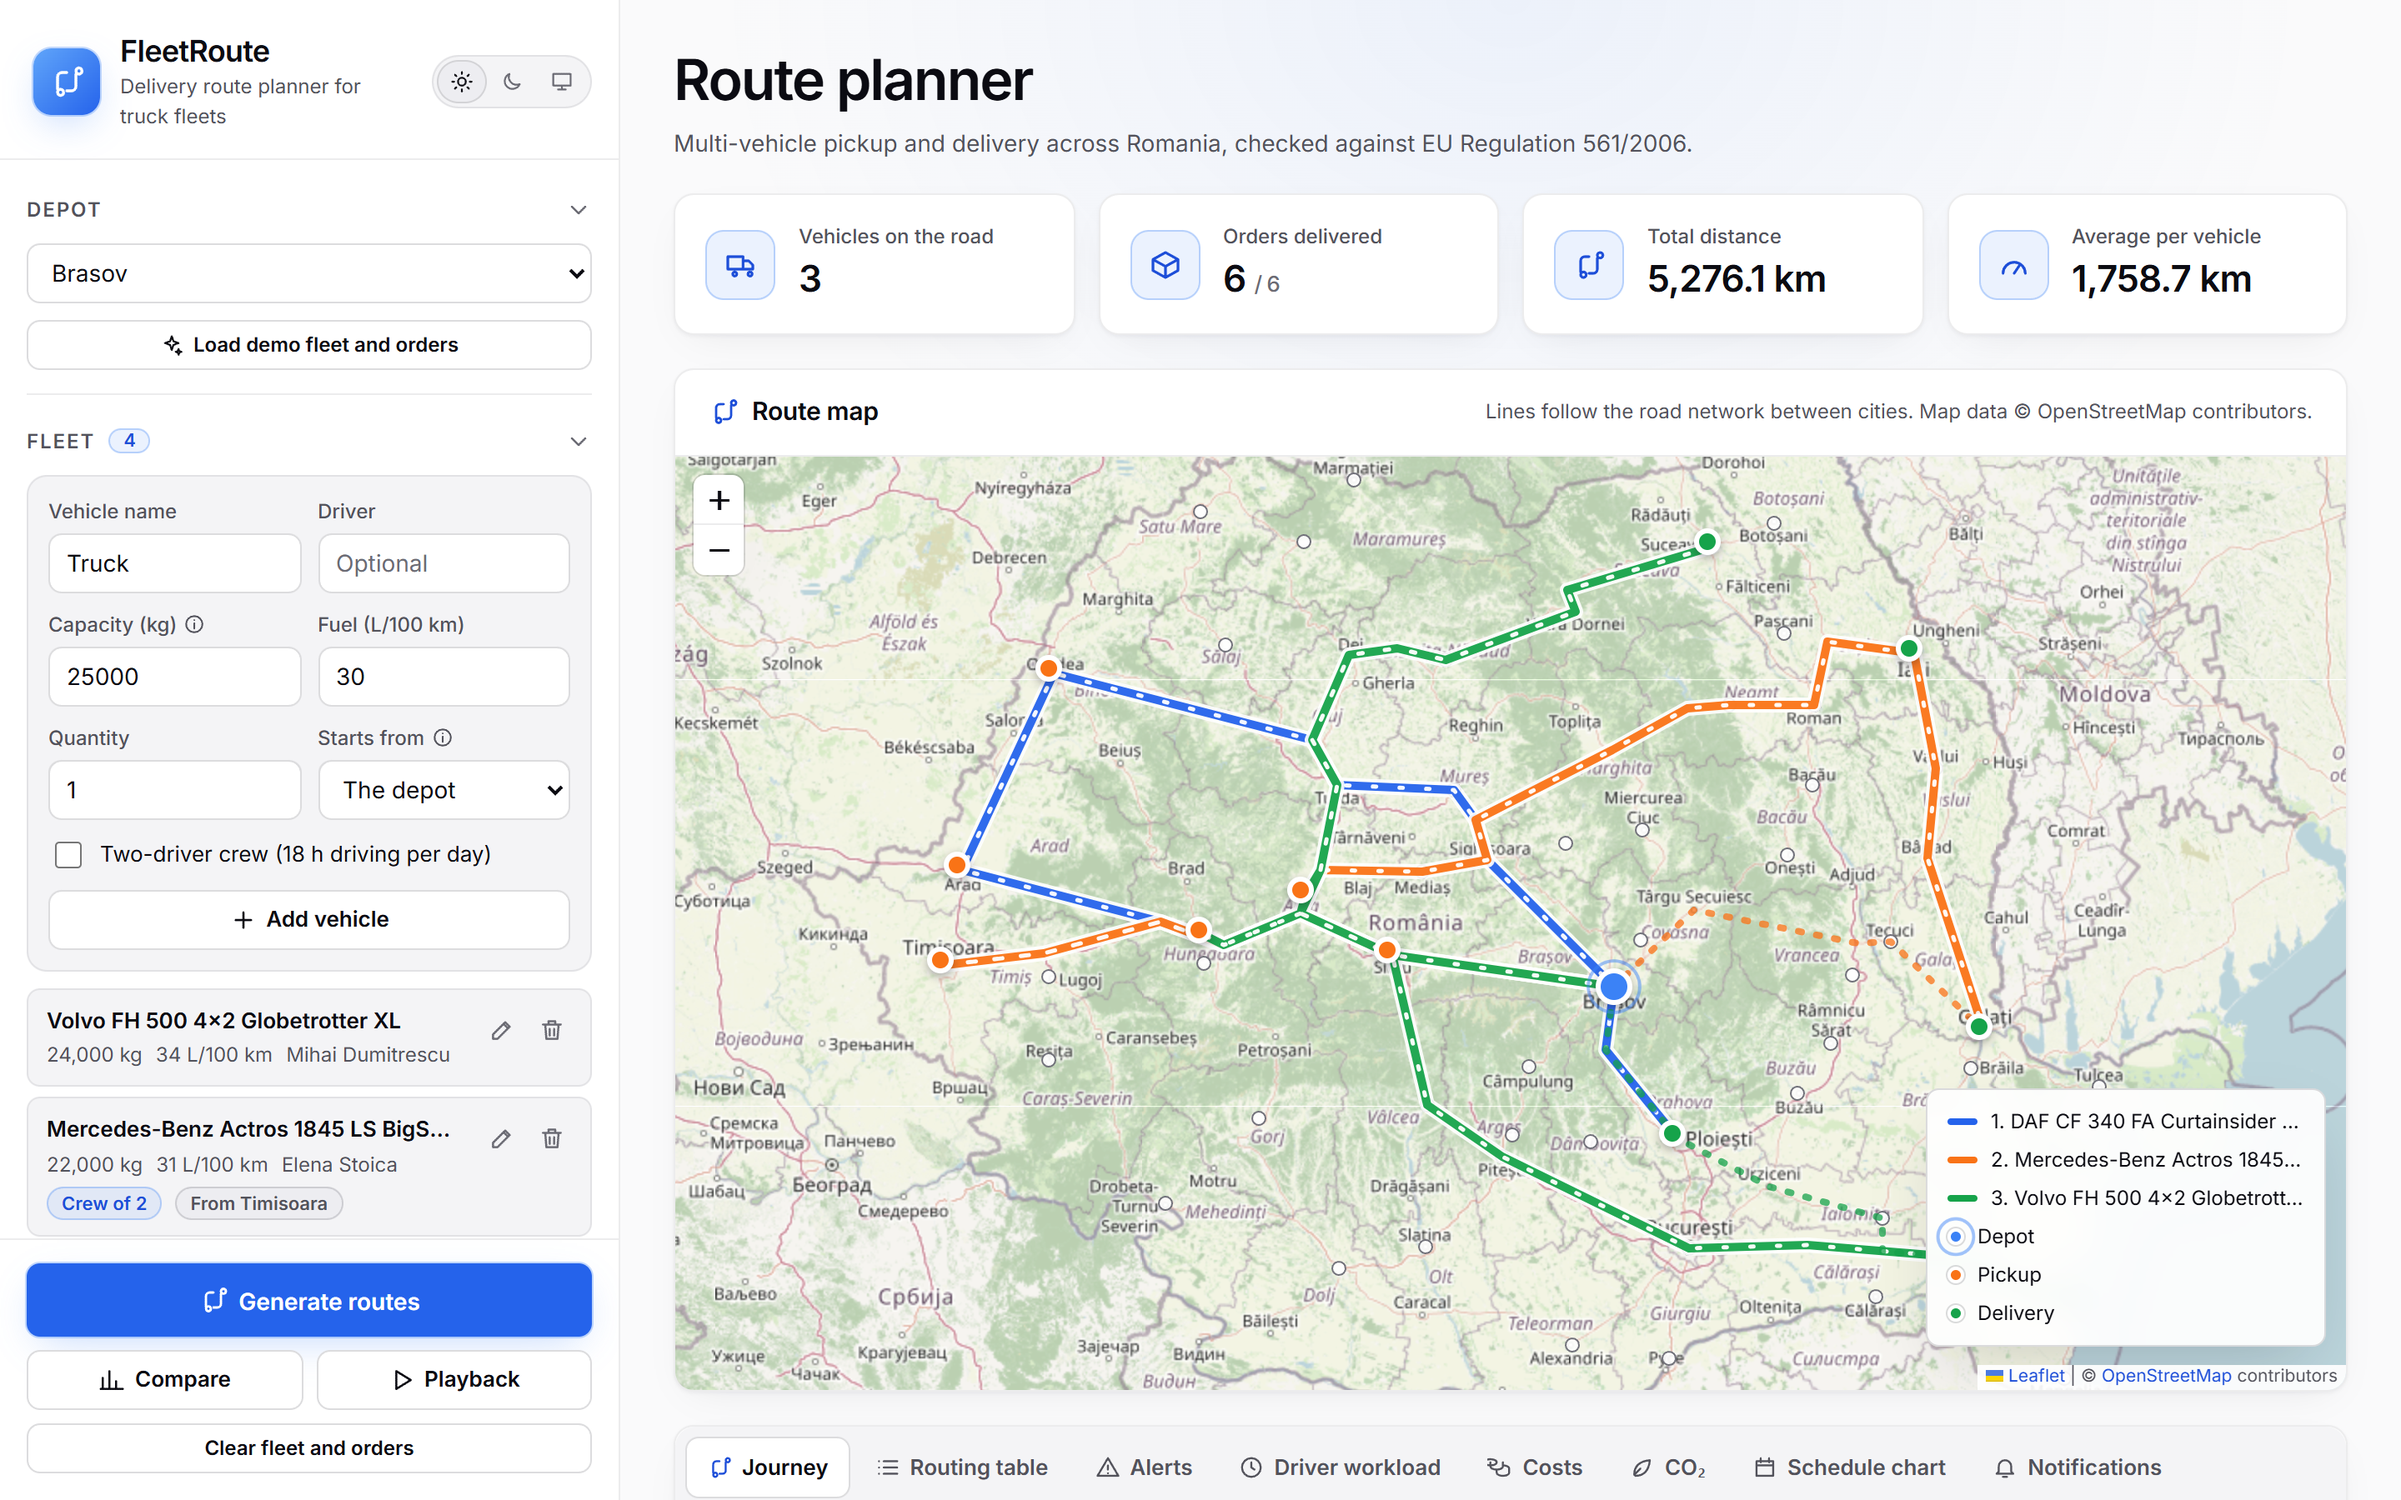
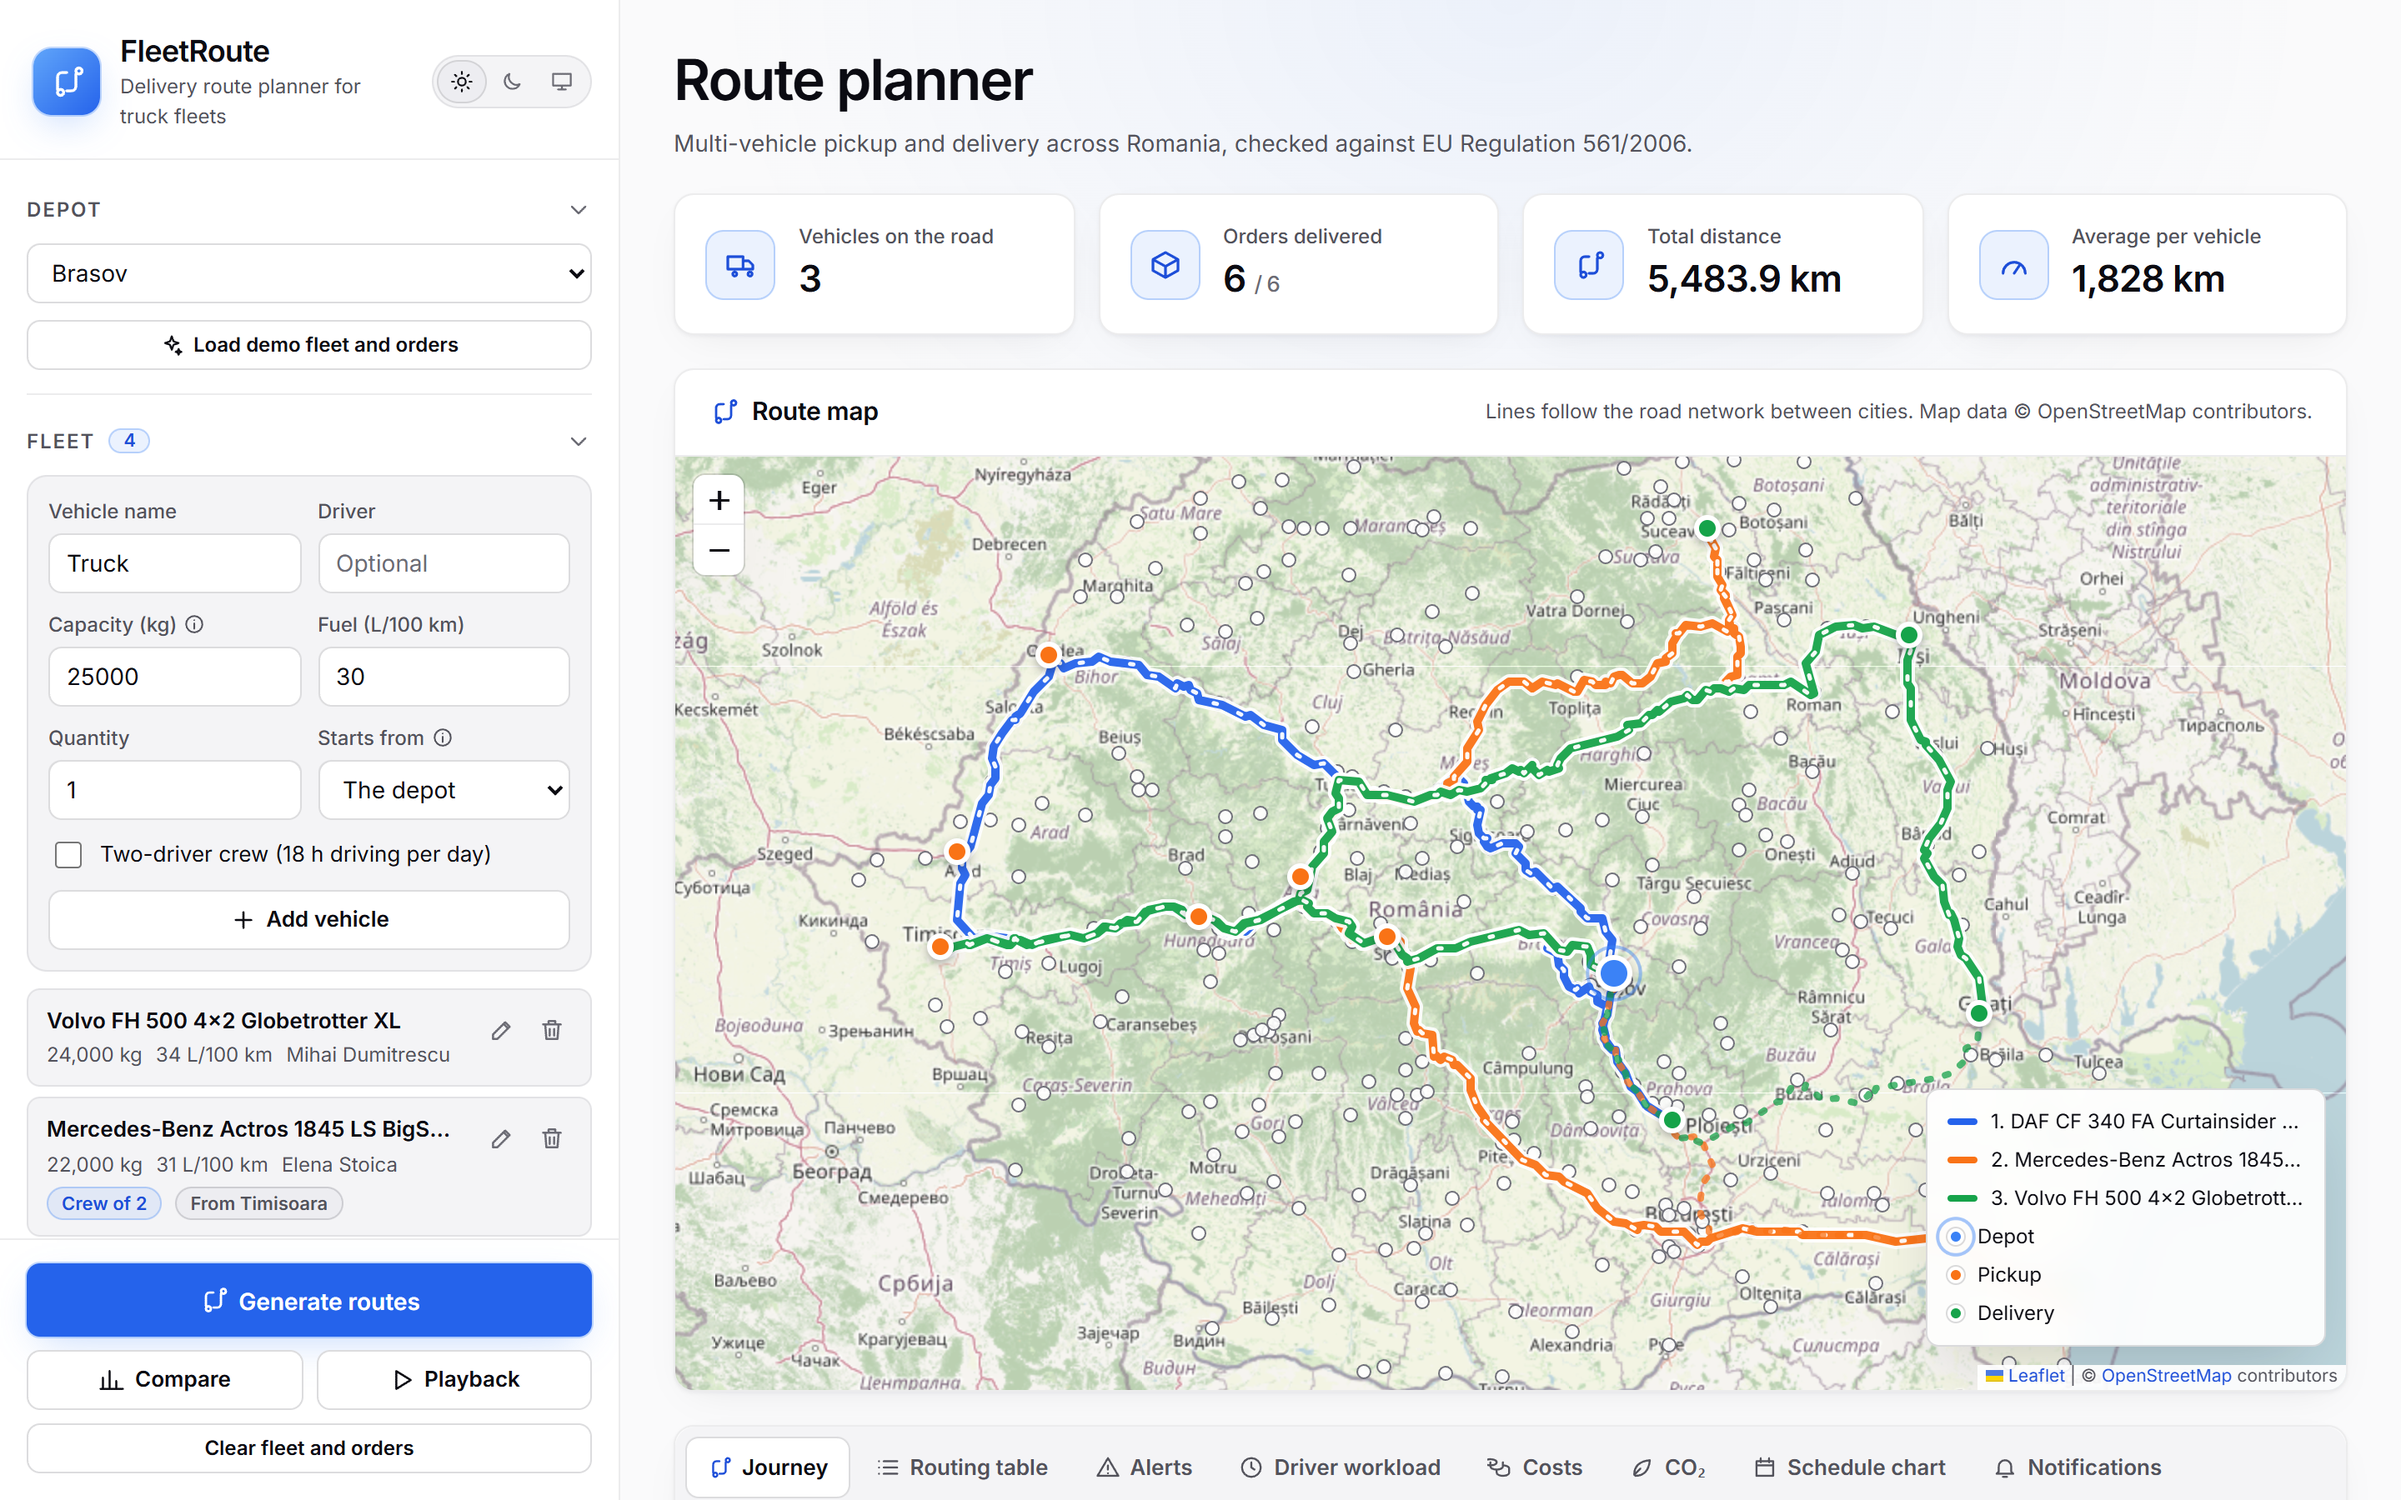
Update README and screenshots for 1.2.0
Describe the country-wide road network, how it is built and what it is accurate to, the
truck-time model, the data licences, and the new tests and CI checks. New screenshots
from the demo plan on real roads. Frontend version 1.2.0.

Changed region(s): [[0.2812, 0.28, 1.0, 0.9333], [0.6875, 0.1556, 0.7812, 0.2178], [0.875, 0.1556, 0.9375, 0.2178]]

diff --git a/README.md b/README.md
@@ -22,14 +22,18 @@ order, and when. Every plan respects truck capacity, delivery deadlines and the 
 driving and rest time.
 
 The optimisation uses Google OR-Tools behind a Python / Starlette API. The interface is
-React + TypeScript with an interactive Leaflet map, in dark and light themes. The road network of 59 Romanian cities
-ships with the project, so planning runs entirely offline. Only the map background comes
-from OpenStreetMap.
+React + TypeScript with an interactive Leaflet map, in dark and light themes. A road
+network covering every city and town in Romania ships with the project, with real road
+distances, truck driving times and road shapes, so planning runs entirely offline. Only the
+map background is loaded from OpenStreetMap.
 
 ![FleetRoute in the dark theme: KPIs and the planned routes on the map](docs/screenshots/overview.png)
 
 ## Highlights
 
+- **The whole of Romania.** All 318 cities and towns reachable by road, from Bucharest to
+  the smallest town, linked by the real roads between them. Any of them can be a depot,
+  a pickup or a delivery.
 - **Vehicle routing with real constraints.** Pickup-and-delivery pairs on the same truck,
   capacity per vehicle, delivery deadlines, earliest pickup times and priority orders.
   All of it is modelled with the OR-Tools routing solver, with a greedy fallback.
@@ -42,8 +46,8 @@ from OpenStreetMap.
   of both, plus a side-by-side comparison of four first-solution strategies.
 - **Load splitting.** Orders heavier than the biggest truck are split across several
   vehicles.
-- **Route playback.** Trucks move across the map on their planned schedule, stopping for
-  loading and unloading.
+- **Route playback.** Trucks drive along the real roads on the map, on their planned
+  schedule, stopping for loading and unloading.
 - **Operational dashboards.** Journey timeline, Gantt-style schedule, driver workload,
   cost breakdown, CO₂ footprint, alerts, Romanian truck speed-limit checks and customer
   notifications.
@@ -79,8 +83,9 @@ from OpenStreetMap.
 | Frontend | React 19, TypeScript, Vite, Leaflet / react-leaflet, hand-written SVG charts, CSS design tokens (dark and light themes) |
 | Backend | Python 3.11–3.13, Starlette, Uvicorn |
 | Optimisation | Google OR-Tools (constraint solver), NetworkX (Dijkstra shortest paths) |
+| Road data | OpenStreetMap via OSRM (distances, times, road shapes), Wikidata (towns), built once by a script |
 | Reports | xlsxwriter, fpdf2 |
-| Quality | pytest (53 tests), Vitest (39 tests), TypeScript strict mode, oxlint, GitHub Actions CI, CodeQL |
+| Quality | pytest (73 tests + data checks on all 1,704 road links), Vitest (42 tests), TypeScript strict mode, oxlint, GitHub Actions CI, CodeQL |
 | Delivery | Multi-stage Docker image, Render blueprint |
 
 ## Architecture
@@ -91,7 +96,7 @@ flowchart LR
     API --> PLAN["planning.py<br/>split loads, expand fleet"]
     PLAN --> SOLVER["solver.py<br/>OR-Tools model"]
     SOLVER <-->|"re-plan with<br/>rest-aware deadlines"| RULES["compliance.py<br/>EU 561/2006 replay"]
-    SOLVER --> GRAPH["graph.py<br/>road network + Dijkstra"]
+    SOLVER --> GRAPH["graph.py<br/>road network, Dijkstra,<br/>road shapes"]
     API --> ANALYTICS["analytics.py<br/>KPIs, timeline, CO₂"]
     API --> EXPORTS["exports.py<br/>Excel / PDF"]
     UI --> MAP["Leaflet map<br/>OpenStreetMap tiles"]
@@ -197,26 +202,37 @@ npm --prefix frontend run lint
 npm --prefix frontend test
 ```
 
-The backend suite has 53 tests:
+The backend suite has 73 tests, plus two data checks on each of the 1,704 road links
+(3,481 in all):
 - solver behaviour on a small fixed network: deadlines, waiting for pickup windows,
   priorities, open routing, fallback
 - EU-rule boundaries on the real road network, e.g. a delivery a single driver cannot
   make but a two-driver crew can
-- the rules engine
+- the rules engine, including a segment longer than the break window (it used to loop
+  forever)
 - input handling and load splitting
 - the HTTP API
+- the road network: all 318 towns connected, the original city names kept, every link's
+  truck time plausible and inside the EU break window, and every road shape running from
+  town to town with a length close to the one the planner uses
+- the network builder's offline parts: town names, shape encoding and simplification,
+  truck times, and how links and shortcuts are chosen
 
-The frontend suite (Vitest) has 39 tests:
+The frontend suite (Vitest) has 42 tests:
 - time and number formatting, and importing fleets and orders saved by the original version
-- truck positions during route playback, including the 2 h loading stops
+- truck positions during route playback, along the road shapes and through the 2 h loading stops
 - the API client's error messages
 - the theme rules, including a check that the no-flash script in `index.html` agrees with them
 
-GitHub Actions runs everything on every push:
+GitHub Actions runs everything on every push and pull request:
 - the backend suite on Python 3.11, 3.12 and 3.13
 - the frontend type-check, lint, unit tests and build
-- a Docker build that starts the container and checks that the demo plan is fully
-  on time
+- a Docker build that starts the container and checks that the demo plan is fully on
+  time, that all 318 towns are served, that a trip between small towns at opposite ends
+  of the country follows real roads, and that responses are compressed
+
+Every job has a time limit, and a newer push cancels the run it replaces. CodeQL scans
+the Python, TypeScript and workflow code for security issues.
 
 ## API
 
@@ -224,7 +240,7 @@ GitHub Actions runs everything on every push:
 |--------|------|---------|
 | GET | `/api/cities` | Selectable cities with coordinates |
 | GET | `/api/demo` | Sample depot, fleet and orders |
-| POST | `/api/plan` | Solve a plan. Returns routes, map lines, KPIs, schedule, timeline and alerts |
+| POST | `/api/plan` | Solve a plan. Returns routes (each step with its road shape), map lines, KPIs, schedule, timeline and alerts |
 | POST | `/api/compare` | Solve with each first-solution strategy and compare the results |
 | POST | `/api/export/{xlsx,pdf}` | Report for a set of planned routes |
 
@@ -260,7 +276,7 @@ backend/
     analytics.py    KPIs, workload, CO2, alerts, timeline
     exports.py      Excel and PDF reports
     graph.py        Road network and shortest paths
-    data/           City coordinates, road network, demo data
+    data/           Towns, road network and road shapes, demo data
   tests/
 frontend/
   src/
@@ -276,13 +292,25 @@ Dockerfile          Multi-stage build: Vite bundle + Python API
 render.yaml         Render deployment blueprint
 dev.bat, dev.sh     Start backend and frontend for development
 run.bat             Build once and serve on one port
+scripts/            Setup helper; build_road_network.py rebuilds the road network
 ```
 
 ## Modelling assumptions
 
-- Distances and driving times come from the bundled road graph (shortest path by
-  distance). Map lines connect the cities along that path rather than the exact road
-  geometry.
+- The road network was built once by `scripts/build_road_network.py` and ships in
+  `backend/fleetroute/data/`. The towns are Romania's 103 municipalities and 216 towns
+  from [Wikidata](https://www.wikidata.org/), except Sulina, which has no road to the rest
+  of the country. Each town is linked to its nearest towns, and
+  [OSRM](https://project-osrm.org/) gives every link's road distance, driving time and
+  shape (simplified to within 20 m). Direct links are added wherever a trip through the
+  nearby towns would be over 5% longer or 10% slower than the real road, so 95% of all
+  town-to-town trips are within 3% of the real road distance.
+- Truck driving times are OSRM's car times plus 10%, and never faster than an 80 km/h
+  average on any link (Romanian limits for trucks are 90 km/h on motorways and 70 km/h
+  on national roads).
+- Trucks take the fastest route through the network. Its time, its distance and the towns
+  it passes all come from that one route, and the lines on the map and the trucks in
+  playback follow its real roads.
 - Every pickup and delivery takes 2 hours of loading or unloading.
 - Rest-aware planning is a heuristic. When the fleet is too tight to do everything legally
   on time, the routing table still flags any delivery that ends up late.
@@ -290,7 +318,12 @@ run.bat             Build once and serve on one port
 
 ## License
 
-Released under the [MIT License](LICENSE).
+The code is released under the [MIT License](LICENSE).
+
+The road network in `backend/fleetroute/data/` (`roads.json` and `road_geometry.json`) is
+derived from OpenStreetMap data, © OpenStreetMap contributors, and is available under the
+[Open Database License](https://opendatacommons.org/licenses/odbl/1-0/). Town names and
+positions come from Wikidata (CC0).
 
 ---
 
